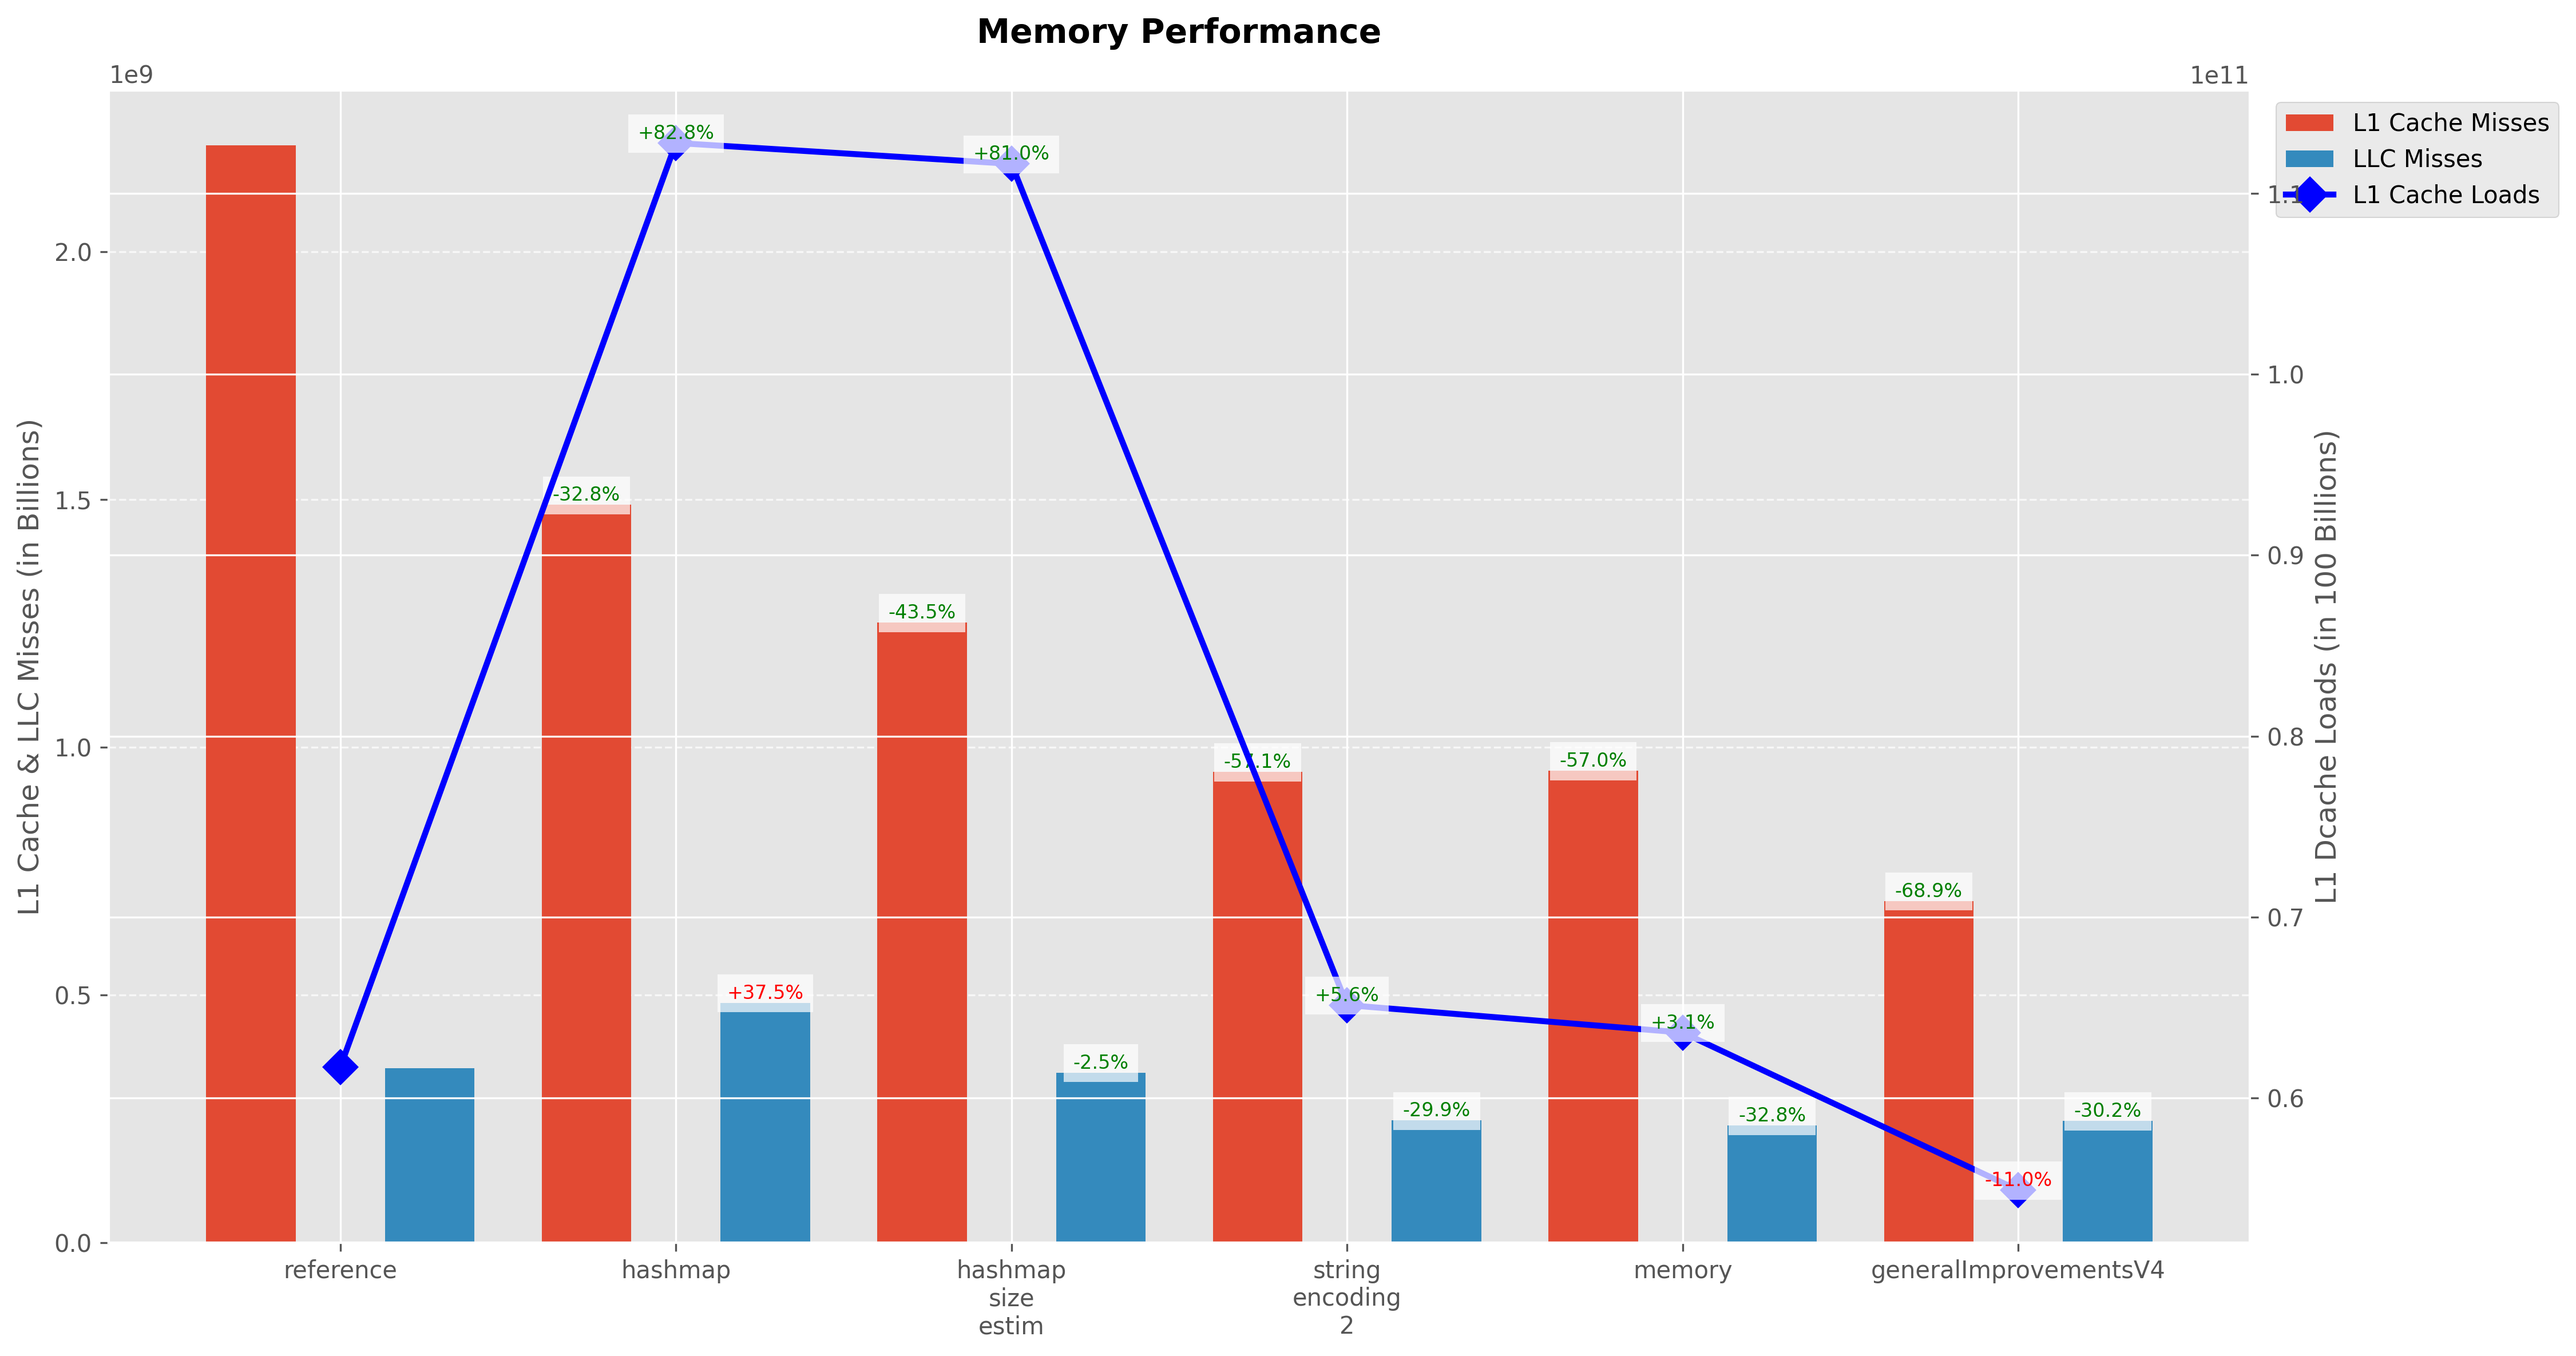
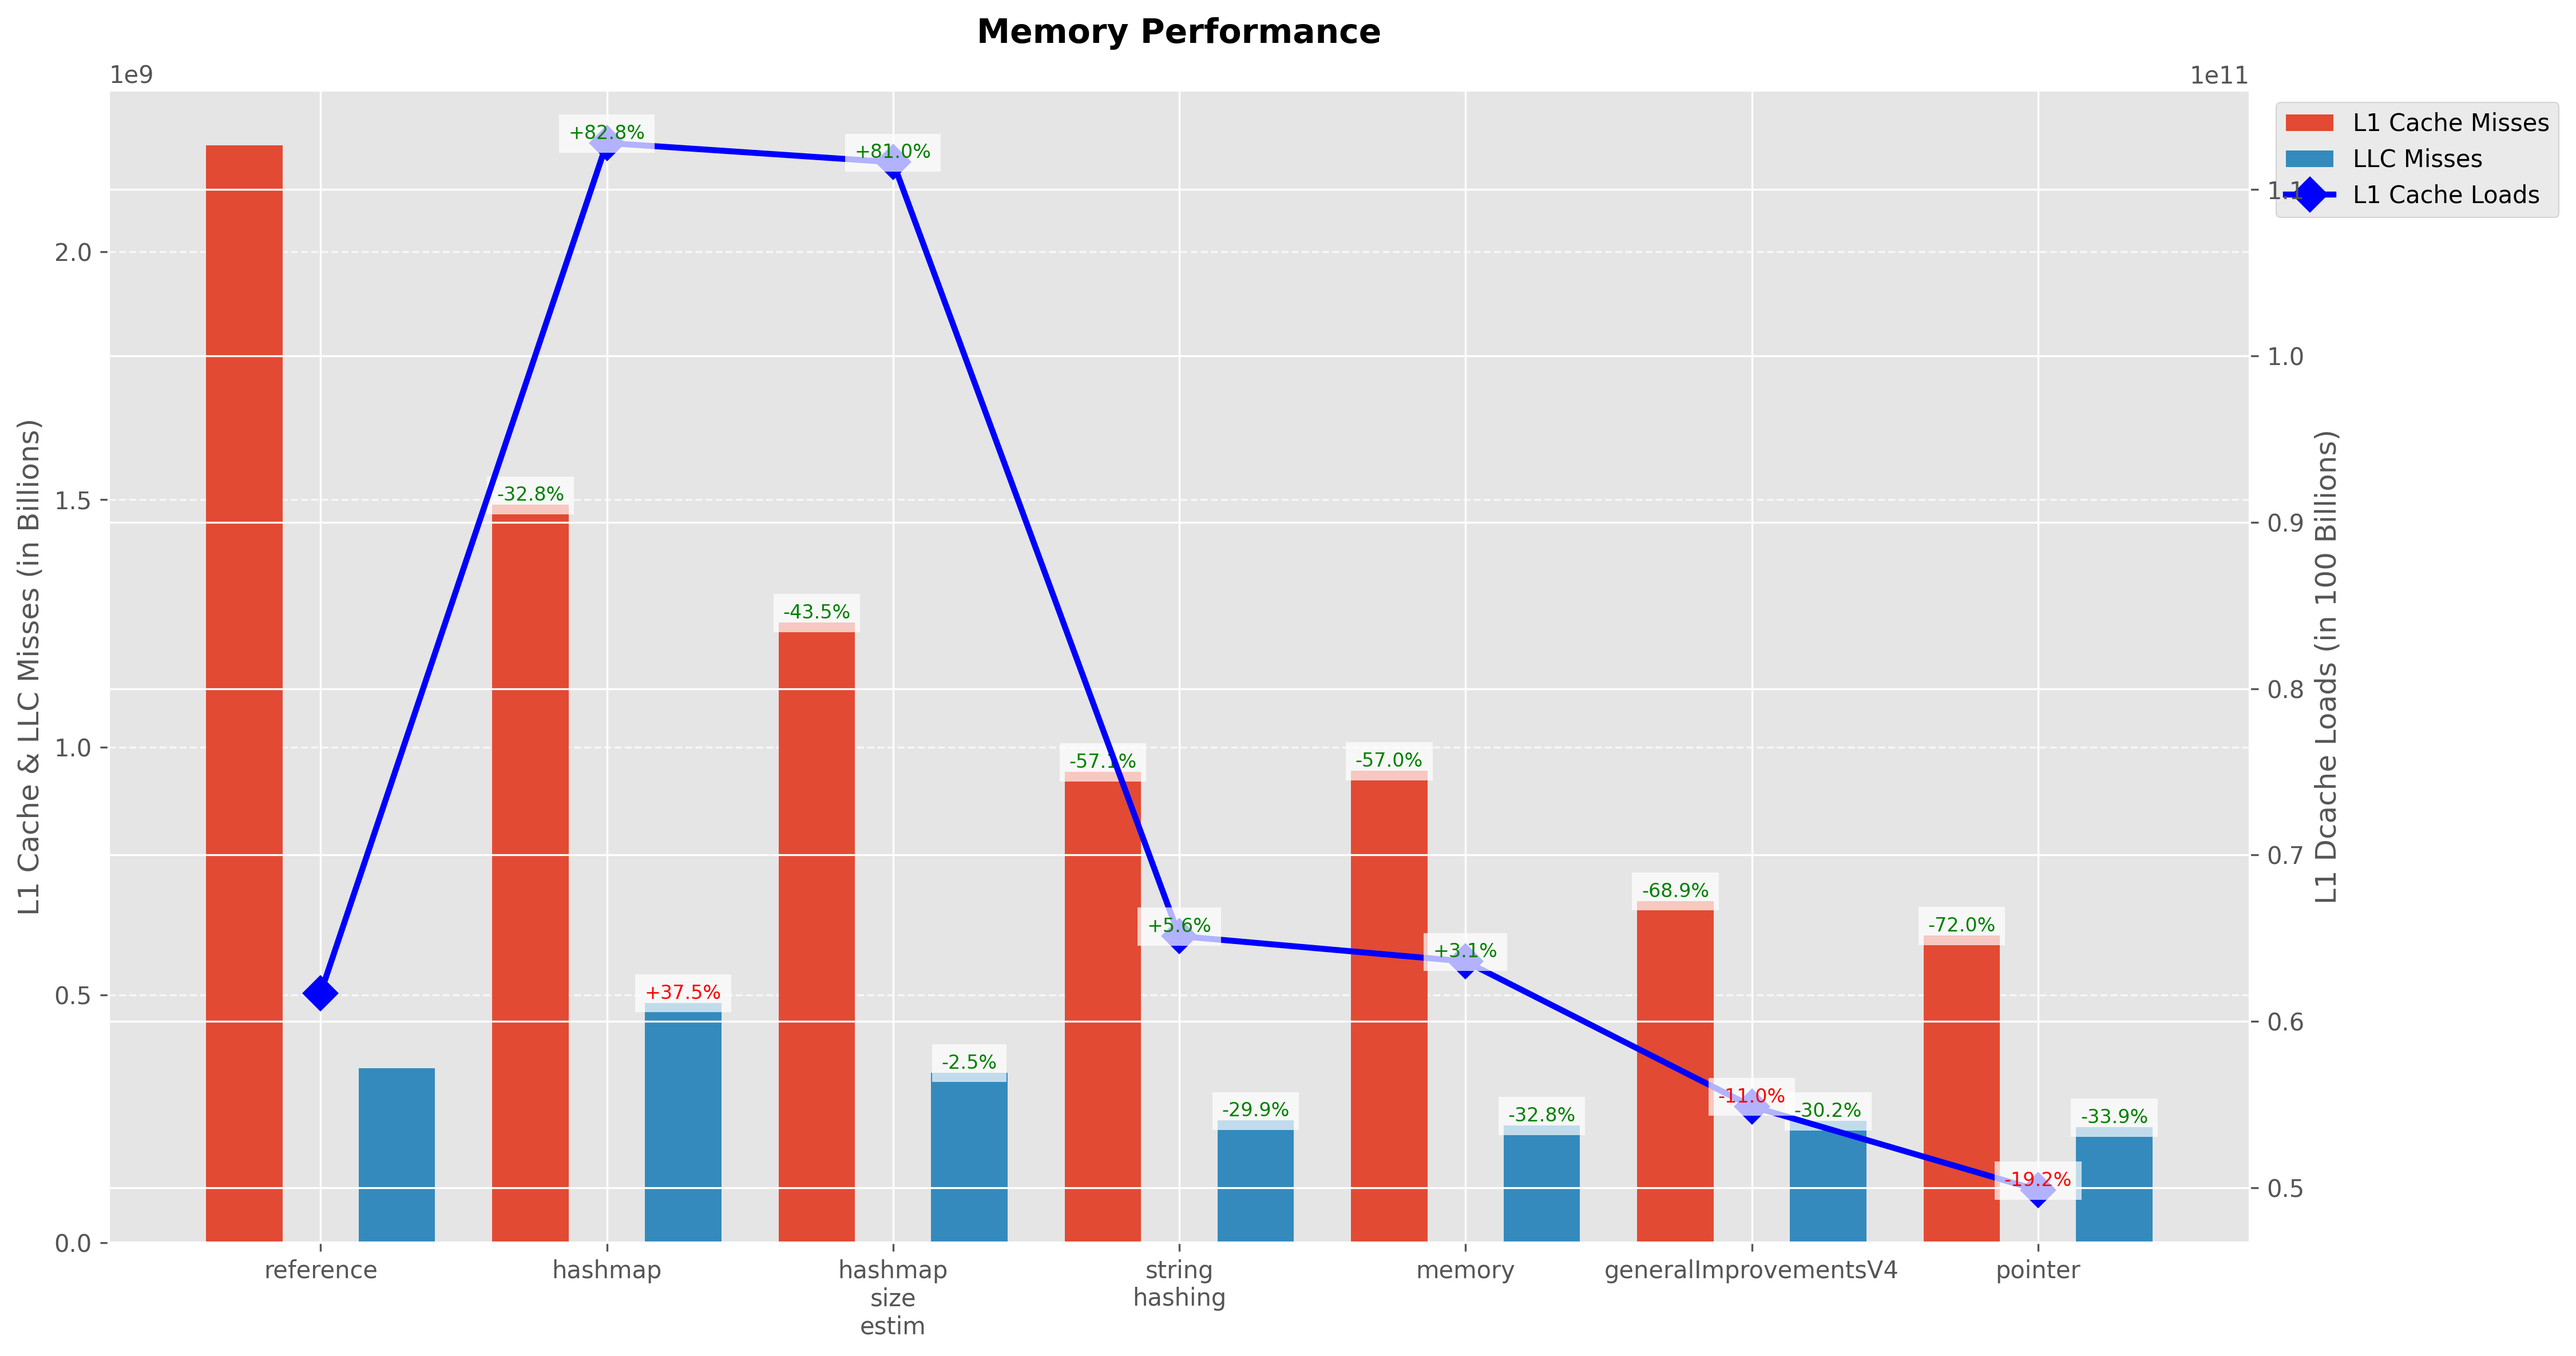
Add grouped plots with pointer implementation results

diff --git a/results/perf_viz_grouped.py b/results/perf_viz_grouped.py
@@ -8,8 +8,8 @@ from typing import List, Dict, Tuple
 # Define implementation order
 IMPLEMENTATION_ORDER = [
     'reference', 'baseline', 'hashmap', 'hashmap_size_estim',
-    'optimize_io', 'string_encoding', 'string_encoding_2',
-    'memory', 'generalImprovementsV4'
+    'optimize_io', 'string_encoding', 'string_hashing',
+    'memory', 'generalImprovementsV4', 'pointer'
 ]
 
 # List of metrics where lower values indicate better performance
